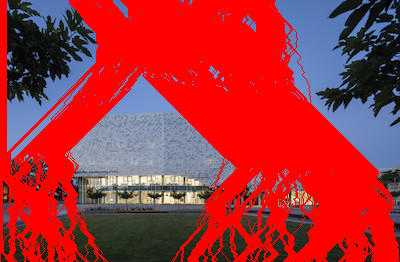
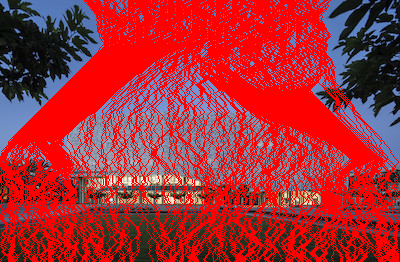
fixed cost matrices calculation

diff --git a/seam_carving.py b/seam_carving.py
@@ -9,6 +9,7 @@ NDArray = Any
 
 VERTICAL_SEAM_COLOUR = np.array([255, 0, 0])
 HORIZONTAL_SEAM_COLOUR = np.array([0, 0, 0])
+EPSILON = 0.000000000001
 
 
 def resize(image: NDArray, out_height: int, out_width: int, forward_implementation: bool) -> Dict[str, NDArray]:
@@ -41,7 +42,7 @@ def vertical_resize(image: NDArray, k: int,forward_implementation: bool ) -> Dic
     for i in range(np.abs(k)):
         if forward_implementation:
             cost_matrix = calculate_forward_cost_matrix(gray_image, gradients)
-            seam_mask = find_best_forward_seam(gray_image, cost_matrix, indices, gradients, seams_mask)
+            seam_mask = find_best_forward_seam(gray_image, cost_matrix, indices, gradients, seams_mask, i)
             gray_image = remove_seam(gray_image, seam_mask)
         else:
             cost_matrix = calculate_cost_matrix(gradients)
@@ -73,7 +74,6 @@ def calculate_cost_matrix(gradients: NDArray):
     return cost_matrix
 
 def calculate_forward_cost_matrix(img: NDArray, gradients: NDArray):
-    print('here')
     cost_matrix = np.zeros_like(img)
     for row in range(len(cost_matrix)):
         for col in range(len(cost_matrix[0])):
@@ -88,28 +88,28 @@ def calculate_forward_cost_matrix(img: NDArray, gradients: NDArray):
             else:
                 cost_matrix[row, col] = gradients[row,col] + min(cost_matrix[row - 1, col - 1] + calc_cl(img, row, col),
                                                cost_matrix[row - 1, col] + calc_cv(img, row,col),
-                                               cost_matrix[row - 1, col + 1]) + calc_cr(img, row, col)
+                                               cost_matrix[row - 1, col + 1] + calc_cr(img, row, col))
     return cost_matrix
 
 
 def calc_cl(img: NDArray, i: int, j: int) :
     if j == 0:
         return np.abs(img[i, j+1]-255) + np.abs(img[i-1, j]-255)
-    if j == len(img) - 1 :
+    if j == len(img[0]) - 1 :
         return np.abs(255-img[i,j-1]) + np.abs(img[i-1, j]-img[i,j-1])
     return np.abs(img[i, j+1]-img[i,j-1]) + np.abs(img[i-1, j]-img[i,j-1])
 
 def calc_cv(img: NDArray, i: int, j: int) :
     if j == 0:
         return np.abs(img[i, j+1]-255)
-    if j == len(img) - 1 :
+    if j == len(img[0]) - 1 :
         return np.abs(255-img[i,j-1])
     return np.abs(img[i, j+1]-img[i,j-1])
 
 def calc_cr(img: NDArray, i: int, j: int) :
     if j == 0:
         return np.abs(img[i, j+1]-255) + np.abs(img[i-1, j]-img[i,j+1])
-    if j == len(img) - 1 :
+    if j == len(img[0]) - 1 :
         return np.abs(255-img[i,j-1]) + np.abs(img[i-1, j]-255)
     return np.abs(img[i, j+1]-img[i,j-1]) + np.abs(img[i-1, j]-img[i,j+1])
 
@@ -122,9 +122,9 @@ def find_best_seam(cost_matrix: NDArray, indices: NDArray, seams_mask: NDArray):
     col = 1
     while row >= 0 :
         if row < len(cost_matrix)-1: #when not in last row
-            min_cost_ind = col - 1 +np.argmin(cost_matrix[row-1, max(col-1,0): min(col+2, cols)])
-            if min_cost_ind < 0:
-                min_cost_ind = 0
+            min_cost_ind = col - 1 +np.argmin(cost_matrix[row, max(col-1,0): min(col+2, cols)])
+            if col == 0: # in this case min_cost_ind == -1 or 0, should be 0 or 1
+                min_cost_ind += 1
             elif min_cost_ind > cols:
                 min_cost_ind = cols
         else : #when in last row:
@@ -136,22 +136,27 @@ def find_best_seam(cost_matrix: NDArray, indices: NDArray, seams_mask: NDArray):
     return current_seam_mask
 
 
-def find_best_forward_seam(img: NDArray, cost_matrix: NDArray, indices: NDArray, gradients: NDArray, seams_mask: NDArray):
+def find_best_forward_seam(img: NDArray, cost_matrix: NDArray, indices: NDArray, gradients: NDArray, seams_mask: NDArray, i):
     current_seam_mask = np.ones_like(cost_matrix)
     row = len(cost_matrix) - 1
+    cols = len(cost_matrix[0]) - 1
     col = 0
     while row >= 0 :
-        if row < len(cost_matrix)-1:
-            if cost_matrix[row,col] == gradients[row,col] + cost_matrix[row-1,col]+ calc_cv(img, row, col):
+        if row < len(cost_matrix)-1 and row > 0:
+            if abs(cost_matrix[row,col] - (gradients[row,col] + cost_matrix[row-1,col]+ calc_cv(img, row, col)))<=EPSILON:
                 min_cost_ind = col
-            elif cost_matrix[row,col] == gradients[row,col] + cost_matrix[row-1,col-1]+ calc_cl(img, row, col):
-                min_cost_ind = col
+            elif abs(cost_matrix[row,col] - (gradients[row,col] + cost_matrix[row-1,col-1]+ calc_cl(img, row, col)))<=EPSILON:
+                min_cost_ind = col - 1
             else:
                 min_cost_ind = col + 1
+        elif row == 0:
+            min_cost_ind = col - 1 + np.argmin(cost_matrix[row, max(col - 1, 0): min(col + 2, cols)])
+            if col == 0:  # in this case min_cost_ind == -1 or 0, should be 0 or 1
+                min_cost_ind += 1
         else :
             min_cost_ind = np.argmin(cost_matrix[row])
         current_seam_mask[row, min_cost_ind] = 0
-        seams_mask[row, indices[min_cost_ind]] = 0
+        seams_mask[row, indices[row,min_cost_ind]] = 0
         row -= 1
         col = min_cost_ind
     return current_seam_mask
